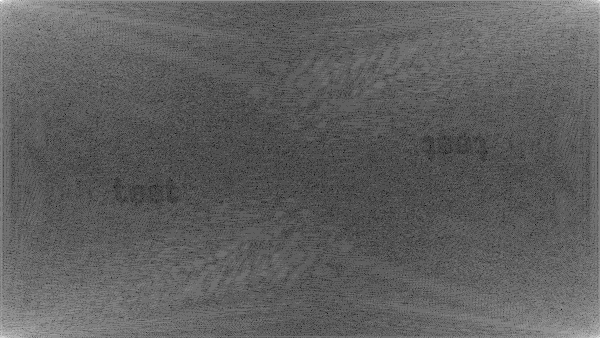
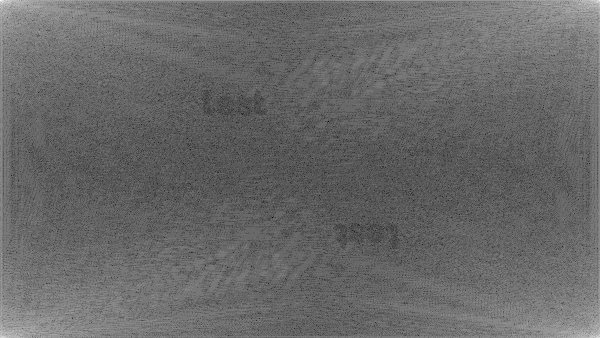
Improve dft text watermark location

diff --git a/src/main/java/me/ww23/image/converter/DctConverter.java b/src/main/java/me/ww23/image/converter/DctConverter.java
@@ -62,7 +62,7 @@ public class DctConverter implements Converter {
     @Override
     public void addTextWatermark(Mat com, String watermark) {
         putText(com, watermark,
-                new Point(com.size().width() >> 2, com.size().height() >> 2),
+                new Point(com.cols() >> 2, com.rows() >> 2),
                 CV_FONT_HERSHEY_COMPLEX, 2.0,
                 new Scalar(2, 2, 2, 0), 2, 8, false);
         //TODO: Support Non-ASCII

diff --git a/src/main/java/me/ww23/image/converter/DftConverter.java b/src/main/java/me/ww23/image/converter/DftConverter.java
@@ -70,7 +70,7 @@ public class DftConverter implements Converter {
     @Override
     public void addTextWatermark(Mat com, String watermark) {
         Scalar s = new Scalar(0, 0, 0, 0);
-        Point p = new Point(com.rows() / 3, com.cols() / 3);
+        Point p = new Point(com.cols() / 3, com.rows() / 3);
 
         putText(com, watermark, p, CV_FONT_HERSHEY_COMPLEX, 1.0, s, 3,
                 8, false);
